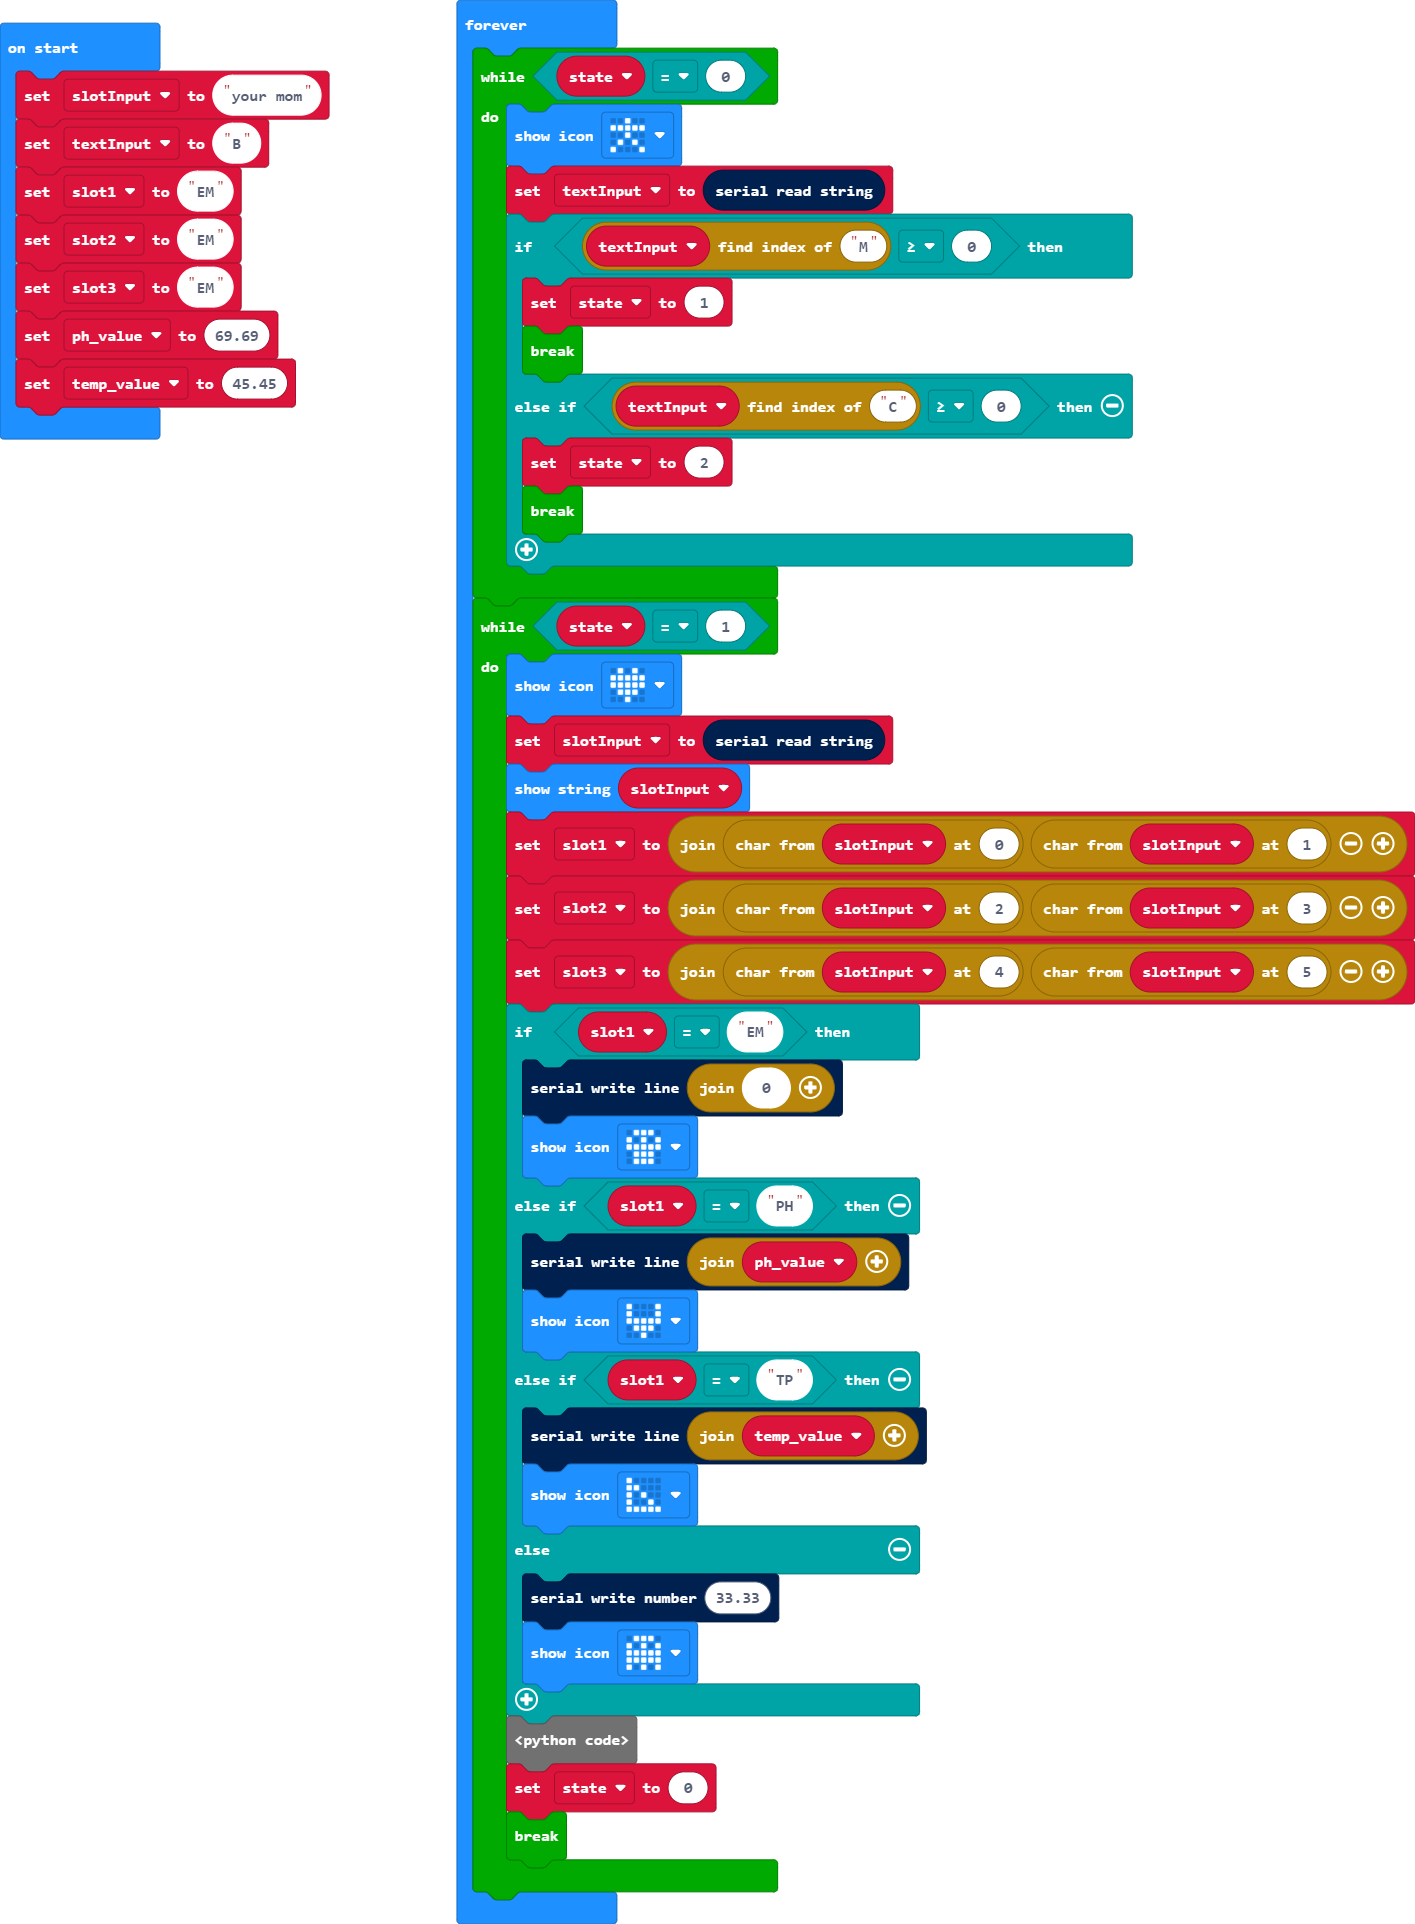
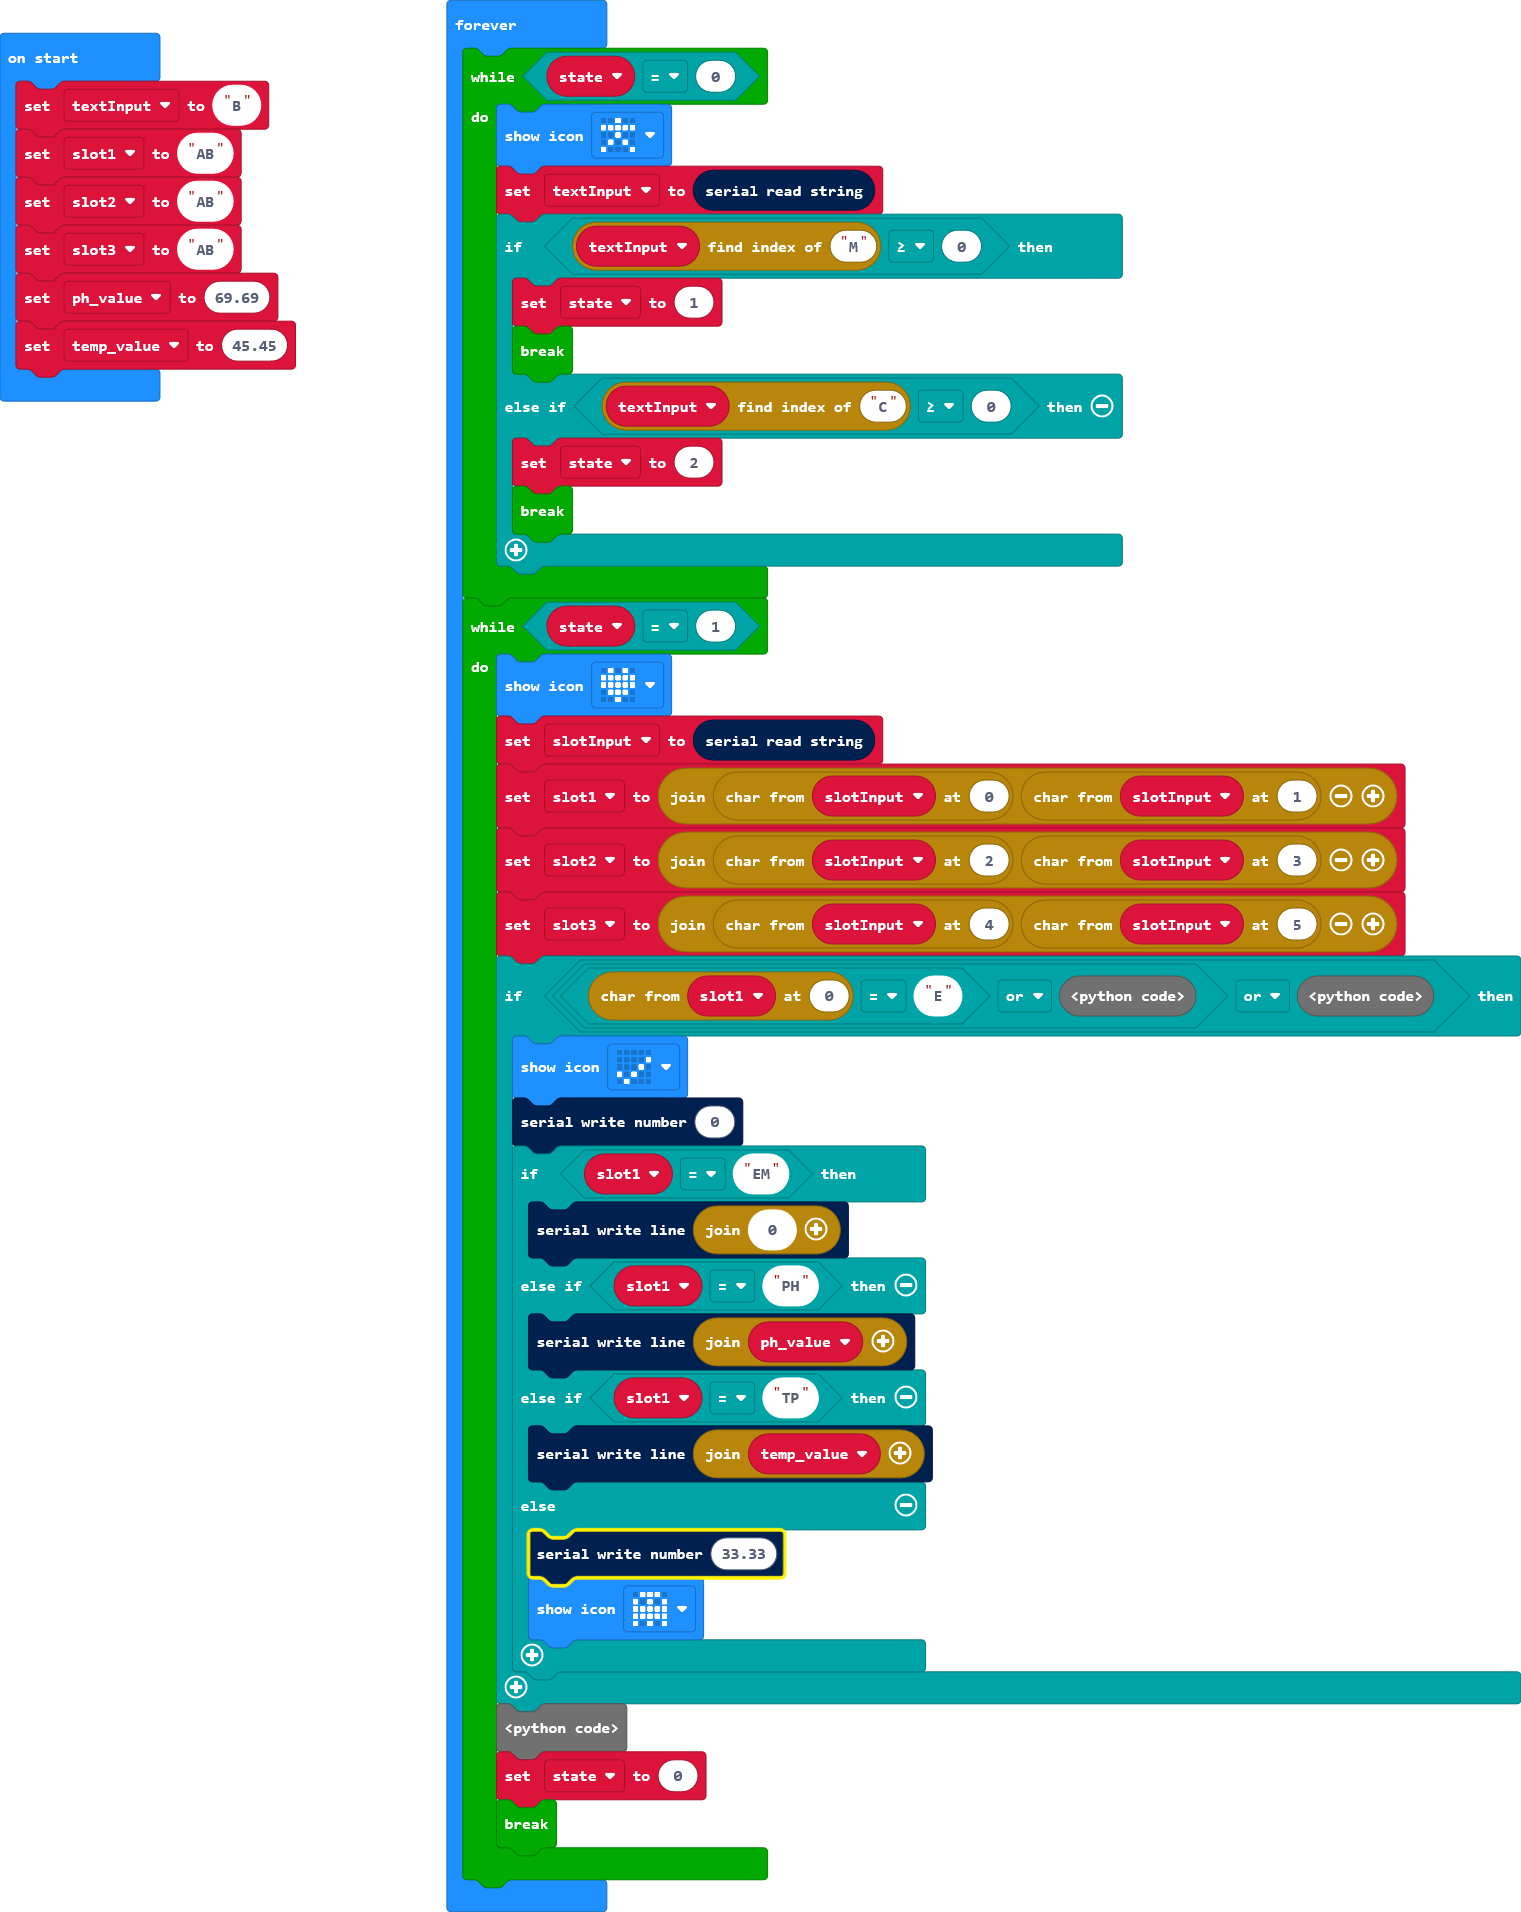
Update pxt.json, main.blocks, main.ts, main.py

Changed region(s): [[0.2799, 0.0, 1.0, 1.0], [0.0, 0.0, 0.2488, 0.2469]]

diff --git a/main.ts b/main.ts
@@ -1,45 +1,60 @@
+let slotInput = ""
 let state = 0
-let slotInput = "your mom"
 let textInput = "B"
-let slot1 = "EM"
-let slot2 = "EM"
-let slot3 = "EM"
+let slot1 = "AB"
+let slot2 = "AB"
+let slot3 = "AB"
 let ph_value = 69.69
 let temp_value = 45.45
-basic.forever(function () {
+basic.forever(function on_forever() {
+    
     while (state == 0) {
         basic.showIcon(IconNames.StickFigure)
         textInput = serial.readString()
         if (textInput.indexOf("M") >= 0) {
             state = 1
-            break;
+            break
         } else if (textInput.indexOf("C") >= 0) {
             state = 2
-            break;
+            break
         }
+        
     }
     while (state == 1) {
         basic.showIcon(IconNames.Heart)
         slotInput = serial.readString()
-        basic.showString(slotInput)
         slot1 = "" + slotInput.charAt(0) + slotInput.charAt(1)
         slot2 = "" + slotInput.charAt(2) + slotInput.charAt(3)
         slot3 = "" + slotInput.charAt(4) + slotInput.charAt(5)
-        if (slot1 == "EM") {
-            serial.writeLine("" + 0)
-            basic.showIcon(IconNames.Skull)
-        } else if (slot1 == "PH") {
-            serial.writeLine("" + ph_value)
-            basic.showIcon(IconNames.Cow)
-        } else if (slot1 == "TP") {
-            serial.writeLine("" + temp_value)
-            basic.showIcon(IconNames.LeftTriangle)
-        } else {
-            serial.writeNumber(33.33)
-            basic.showIcon(IconNames.Ghost)
+        if (slot1.charAt(0) == "E" || "P" || "T") {
+            basic.showIcon(IconNames.Yes)
+            serial.writeNumber(0)
+            if (slot1 == "EM") {
+                serial.writeLine("" + ("" + 0))
+            } else if (slot1 == "PH") {
+                serial.writeLine("" + ("" + ph_value))
+            } else if (slot1 == "TP") {
+                serial.writeLine("" + ("" + temp_value))
+            }
+            
+            if (slot2 == "EM") {
+                serial.writeLine("" + ("" + 0))
+            } else if (slot2 == "PH") {
+                serial.writeLine("" + ("" + ph_value))
+            } else if (slot2 == "TP") {
+                serial.writeLine("" + ("" + temp_value))
+            }
+            
+            if (slot3 == "EM") {
+                serial.writeLine("" + ("" + 0))
+            } else if (slot3 == "PH") {
+                serial.writeLine("" + ("" + ph_value))
+            } else if (slot3 == "TP") {
+                serial.writeLine("" + ("" + temp_value))
+            }
+            
         }
-        pause(10000)
-state = 0
-        break;
+        
+        pause(100)
     }
 })

diff --git a/main.py b/main.py
@@ -1,9 +1,9 @@
-slotInput = "your mom"
+slotInput = ""
 state = 0
 textInput = "B"
-slot1 = "EM"
-slot2 = "EM"
-slot3 = "EM"
+slot1 = "AB"
+slot2 = "AB"
+slot3 = "AB"
 ph_value = 69.69
 temp_value = 45.45
 
@@ -21,19 +21,29 @@ def on_forever():
     while state == 1:
         basic.show_icon(IconNames.HEART)
         slotInput = serial.read_string()
-        basic.show_string(slotInput)
         slot1 = "" + slotInput.char_at(0) + slotInput.char_at(1)
         slot2 = "" + slotInput.char_at(2) + slotInput.char_at(3)
         slot3 = "" + slotInput.char_at(4) + slotInput.char_at(5)
-        if slot1 == "EM":
-            serial.write_line("" + str(0))
-        elif slot1 == "PH":
-            serial.write_line("" + str(ph_value))
-        elif slot1 == "TP":
-            serial.write_line("" + str(temp_value))
-        else:
-            serial.write_number(33.33)
-        pause(10000)
-        state = 0
-        break
+        if slot1.char_at(0) == "E" or "P" or "T":
+            basic.show_icon(IconNames.YES)
+            serial.write_number(0)
+            if slot1 == "EM":
+                serial.write_line("" + str(0))
+            elif slot1 == "PH":
+                serial.write_line("" + str(ph_value))
+            elif slot1 == "TP":
+                serial.write_line("" + str(temp_value))
+            if slot2 == "EM":
+                serial.write_line("" + str(0))
+            elif slot2 == "PH":
+                serial.write_line("" + str(ph_value))
+            elif slot2 == "TP":
+                serial.write_line("" + str(temp_value))  
+            if slot3 == "EM":
+                serial.write_line("" + str(0))
+            elif slot3 == "PH":
+                serial.write_line("" + str(ph_value))
+            elif slot3 == "TP":
+                serial.write_line("" + str(temp_value))                              
+        pause(100)
 basic.forever(on_forever)
